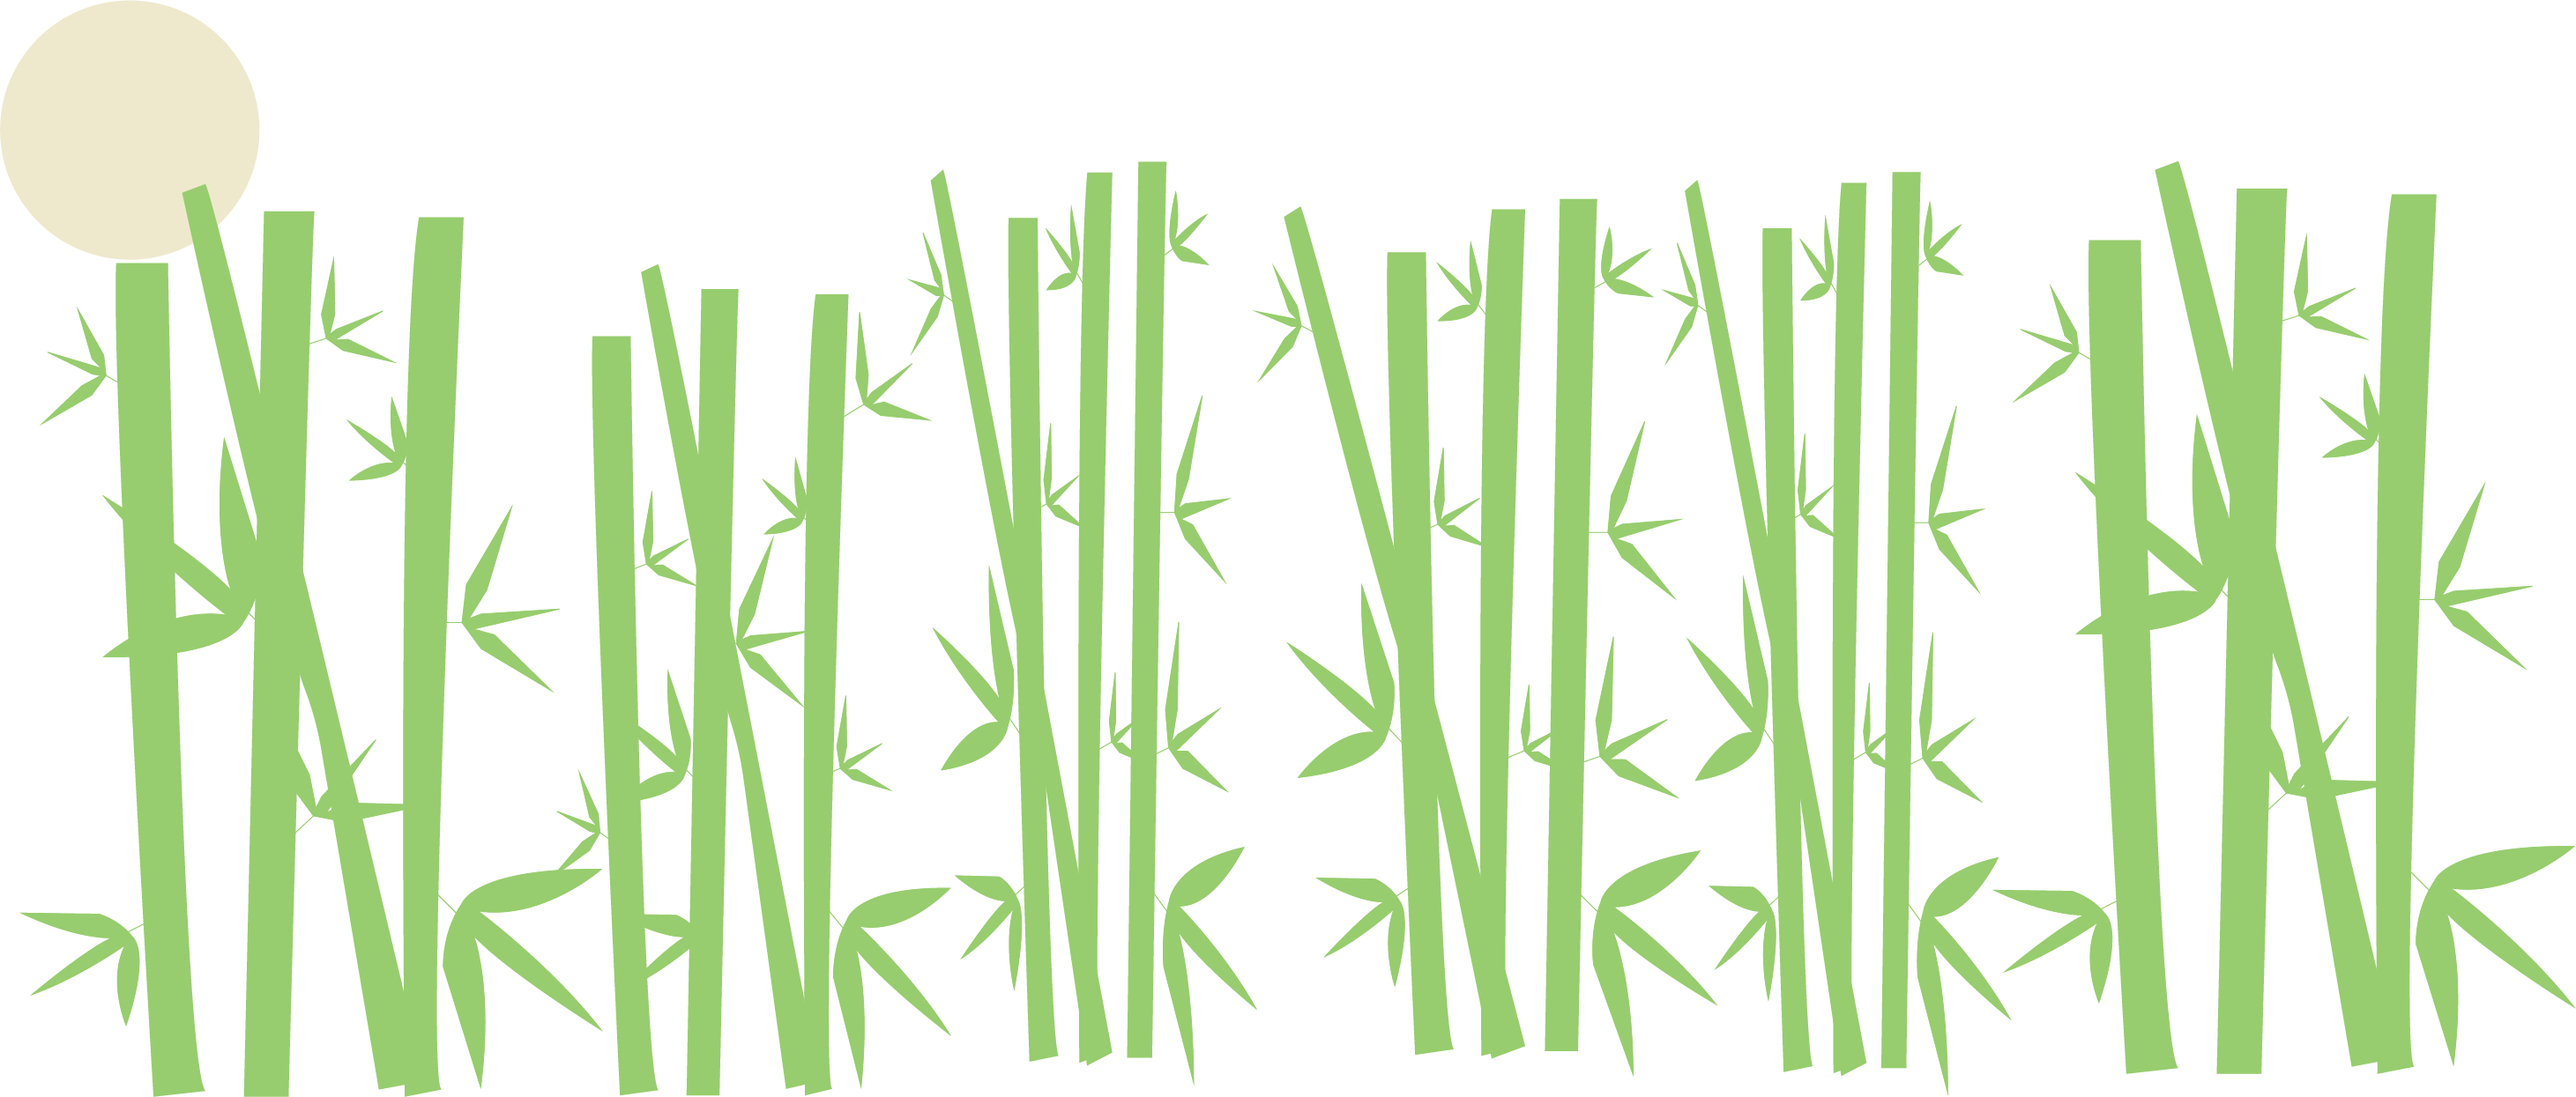
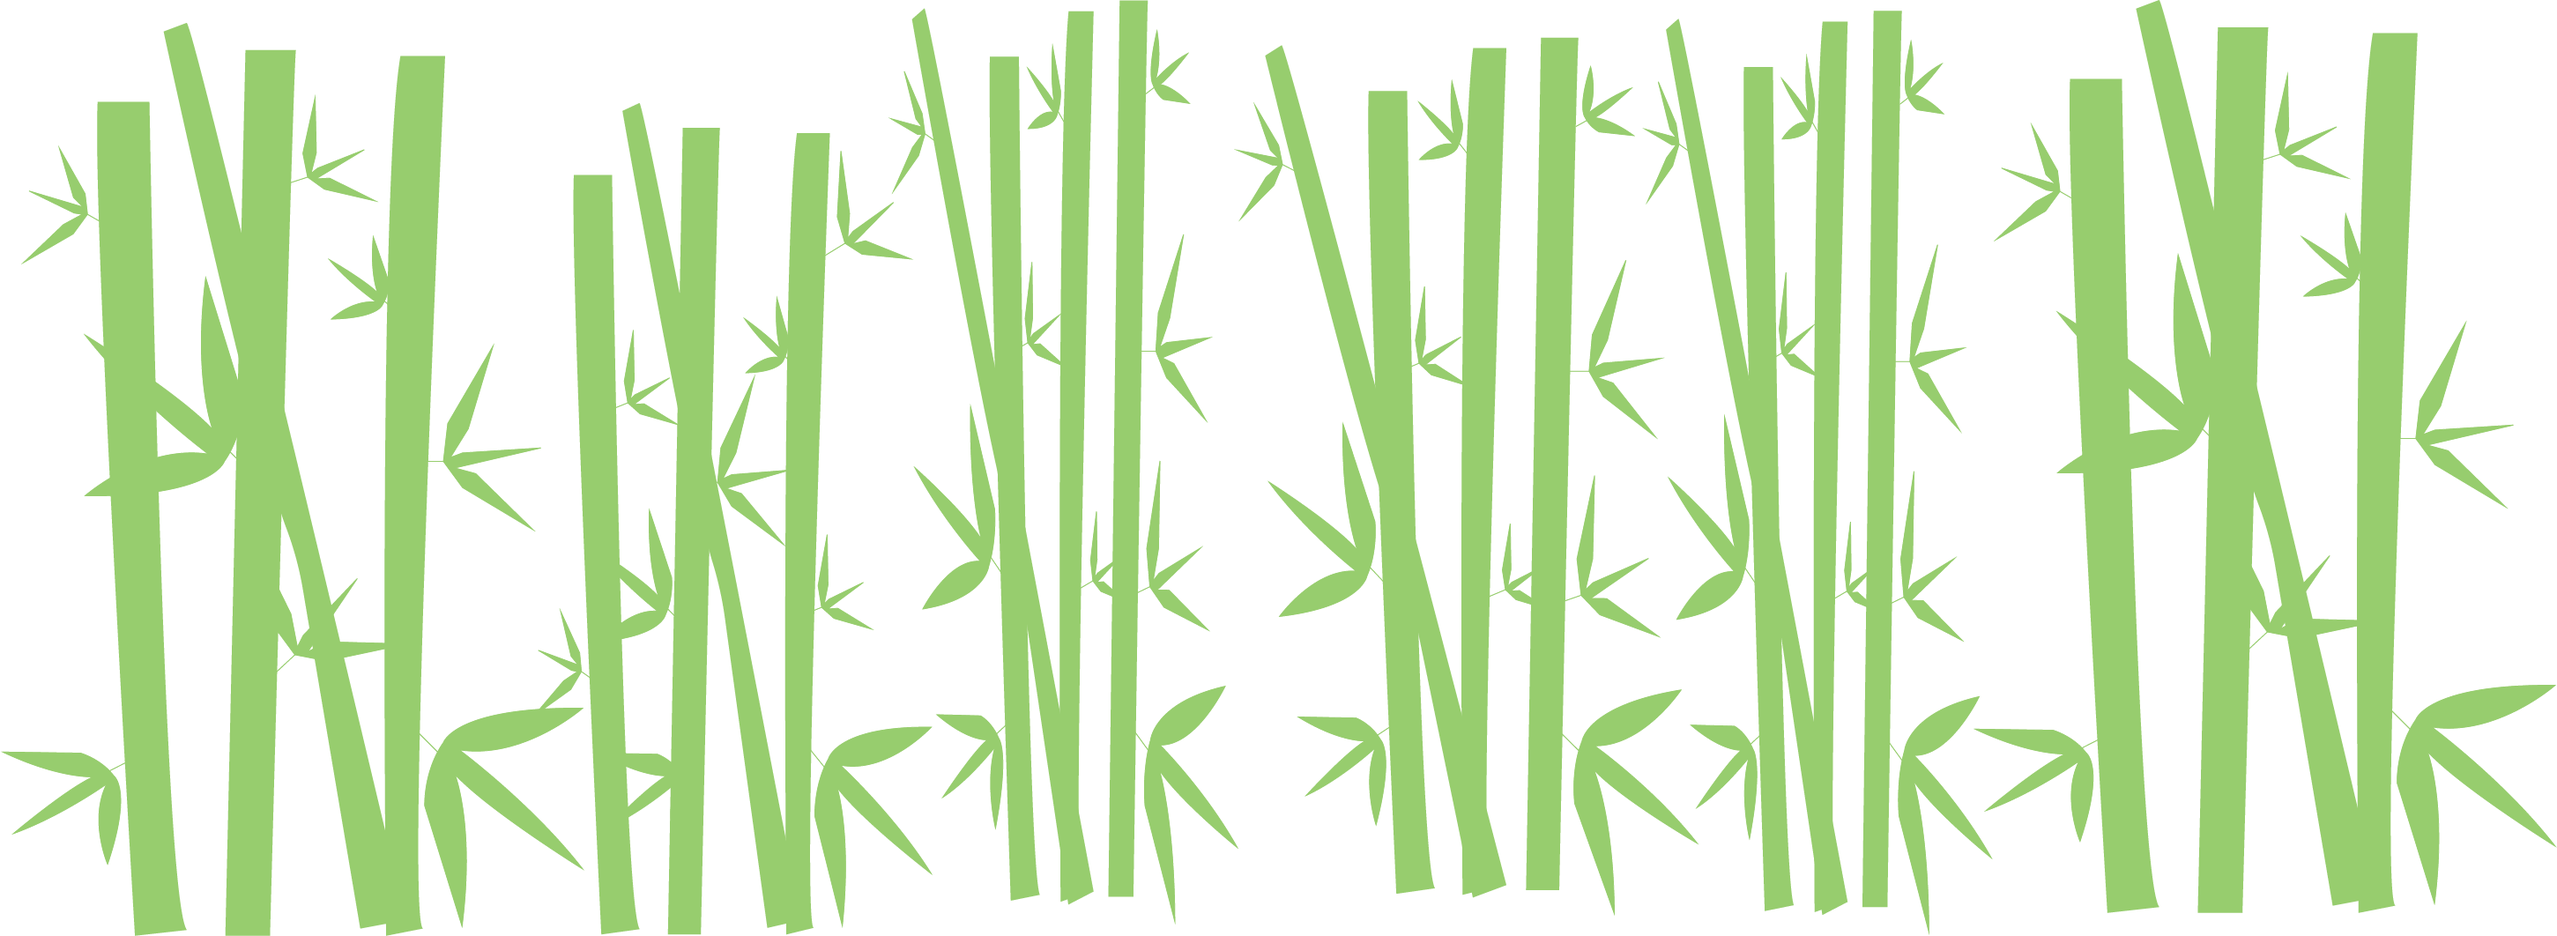
added background interval scroll

Changed region(s): [[0.0, 0.0, 1.0, 1.0], [0.8997, 0.9633, 0.9307, 0.9944], [0.8376, 0.9633, 0.8687, 0.9944]]

diff --git a/index.html b/index.html
@@ -14,17 +14,16 @@
     </head>
     <body>
          
-         <h2 class= "pointh">Points: 0 </h2>
+        <h2 class= "pointh">Points: 0 </h2>
         <br>
         <h2 class="livesh">Lives: 3</h2>
 
-        <img class="bgpic" src="img/bamboobg.png" alt="bamboo"/> 
-        
+        <!-- <img class="bgpic" src="img/bamboobg.png" alt="bamboo"/>  -->
+
         <img class="panda" src="img/sprite.png" alt="panda"/>
   
         <img class="point" src="img/bamboo.png" alt="bamboo"/>
       
-
 
         <img class="leopard" src="img/leopard.png" alt="leopard"/>
 

diff --git a/js/main.js b/js/main.js
@@ -1,0 +1,14 @@
+// Make panda move with keypress
+//math.random for points with maximum height 
+//have background repeat when panda reaches the edge of screen
+//leopard randomly appear (boss)
+//make score and lives go up/down
+
+var posX = 0;
+var speed = 3;
+var scroller = function() {
+	posX -= speed;
+	$('body').css('background-position', posX+'px 0');
+}
+
+setInterval(scroller, 5);

diff --git a/css/main.css b/css/main.css
@@ -58,6 +58,7 @@ textarea {
 body{
     overflow-y: hidden;
     background-color: black;
+    background-image: url(../img/bamboobg.png);
 }
 .pointh{
     position: fixed;
